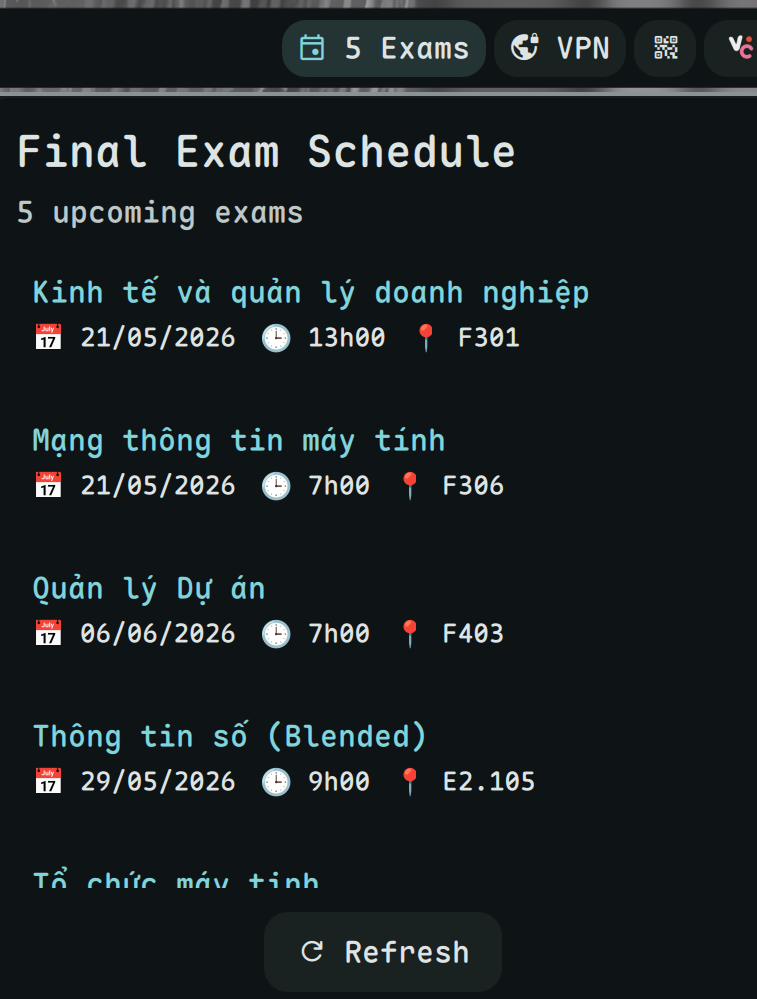
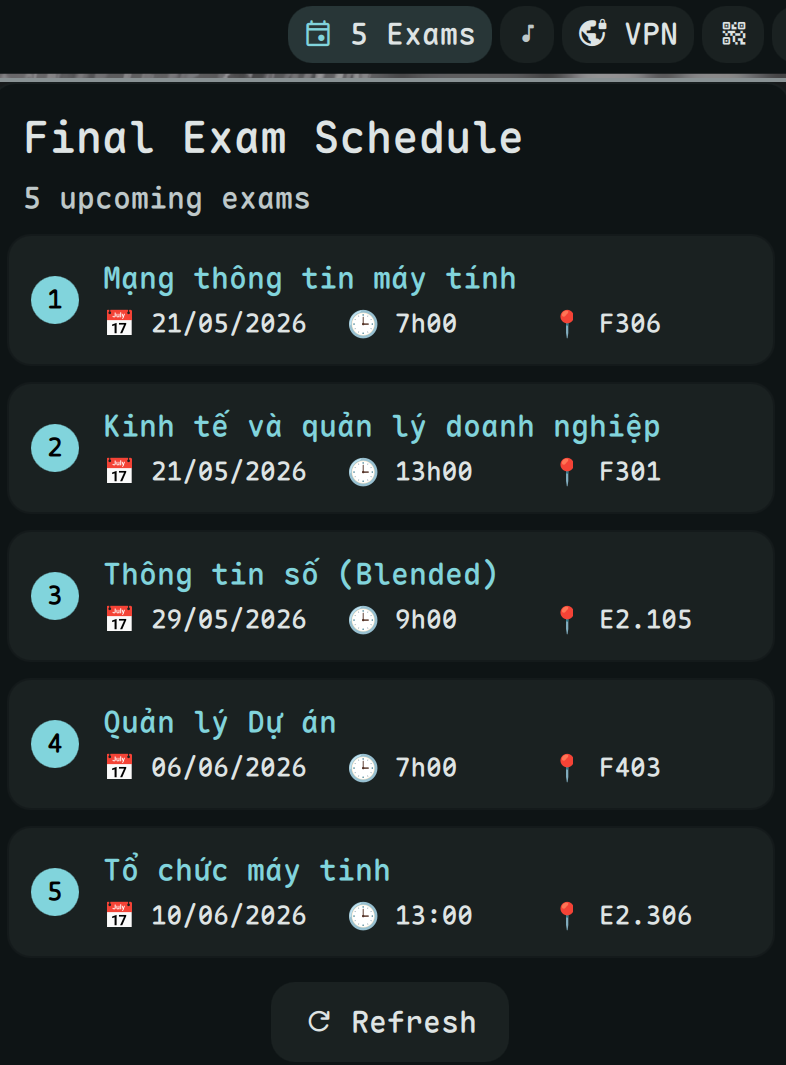
Refactor ExamWidget to dynamically adjust popout height and improve content display

diff --git a/ExamWidget.qml b/ExamWidget.qml
@@ -15,6 +15,10 @@ PluginComponent {
     property bool isLoading: false
     readonly property string pluginDir: Qt.resolvedUrl(".").toString().replace("file://", "")
 
+    // Dynamic popout height – updated by content
+    property real dynamicPopoutHeight: 300   // initial minimum
+    popoutHeight: dynamicPopoutHeight
+
     function refresh() {
         if (!pluginData.username || !pluginData.password) {
             errorMessage = "Please enter Student ID and Password in Settings.";
@@ -37,7 +41,6 @@ PluginComponent {
     on_PassChanged: refresh()
 
     Component.onCompleted: {
-        // Use a small delay to ensure PluginService and pluginData are fully synced
         Qt.callLater(() => {
             refresh();
         });
@@ -63,6 +66,8 @@ PluginComponent {
                     } else if (Array.isArray(result)) {
                         root.exams = result;
                         root.errorMessage = "";
+                        // Schedule popout resize after layout
+                        Qt.callLater(updatePopoutSize)
                     }
                 } catch (e) {
                     root.errorMessage = "Failed to process data from server.";
@@ -72,6 +77,13 @@ PluginComponent {
         }
         onExited: (exitCode, exitStatus) => {
             root.isLoading = false;
+        }
+    }
+
+    // Called whenever the popout content might change size
+    function updatePopoutSize() {
+        if (popoutColumn && popoutColumn.implicitHeight > 0) {
+            dynamicPopoutHeight = popoutColumn.implicitHeight;
         }
     }
 
@@ -115,7 +127,7 @@ PluginComponent {
     }
 
     popoutWidth: 400
-    popoutHeight: 450
+    // popoutHeight is now bound to dynamicPopoutHeight
 
     popoutContent: Component {
         PopoutComponent {
@@ -123,20 +135,23 @@ PluginComponent {
             headerText: "Final Exam Schedule"
             detailsText: root.isLoading ? "Loading..." : (root.errorMessage || (root.exams.length + " upcoming exams"))
             showCloseButton: false
-            
+
             Column {
+                id: popoutColumn   // used to measure total content height
                 width: parent.width
                 spacing: Theme.spacingM
 
+                // List of exams – no scroll, height == contentHeight
                 ListView {
+                    id: examList
                     width: parent.width
-                    height: Math.min(320, contentHeight)
+                    height: contentHeight   // show all items
                     model: root.exams
-                    clip: true
+                    interactive: false      // no scroll needed
                     spacing: Theme.spacingS
                     visible: root.exams.length > 0
-                    
-delegate: Rectangle {
+
+                    delegate: Rectangle {
                         width: ListView.view.width
                         height: innerColumn.height + Theme.spacingM * 2
                         color: Theme.surfaceContainerHigh
@@ -185,7 +200,7 @@ delegate: Rectangle {
                             Row {
                                 spacing: Theme.spacingM
                                 width: parent.width
-                                
+
                                 Item {
                                     width: 110
                                     height: dateText.height
@@ -225,20 +240,24 @@ delegate: Rectangle {
                             }
                         }
                     }
+
+                    // After items change, trigger size recalculation
+                    onContentHeightChanged: root.updatePopoutSize()
                 }
 
+                // Empty state or error message
                 Column {
                     width: parent.width
                     spacing: Theme.spacingM
                     visible: (root.exams.length === 0 || root.errorMessage) && !root.isLoading
-                    
+
                     DankIcon {
                         name: root.errorMessage ? "error_outline" : "event_available"
                         size: 48
                         color: Theme.surfaceVariantText
                         anchors.horizontalCenter: parent.horizontalCenter
                     }
-                    
+
                     StyledText {
                         text: root.errorMessage || "No exam schedule found."
                         width: parent.width - Theme.spacingL * 2
@@ -249,6 +268,7 @@ delegate: Rectangle {
                     }
                 }
 
+                // Refresh button
                 DankButton {
                     text: "Refresh"
                     iconName: "refresh"
